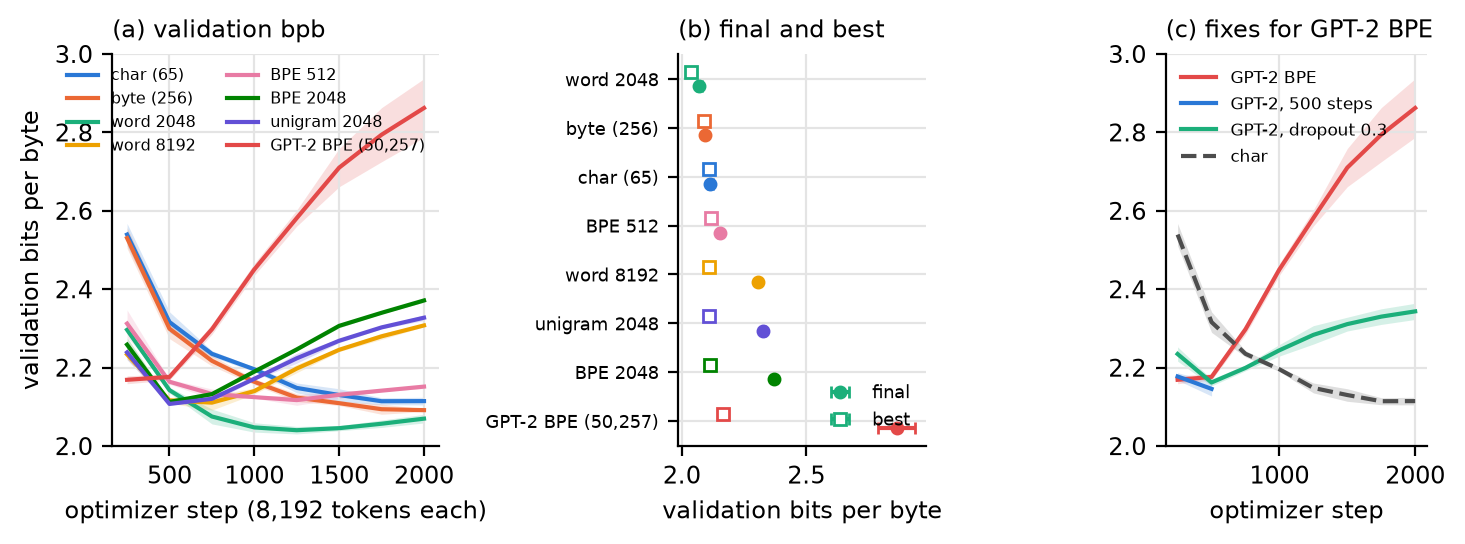
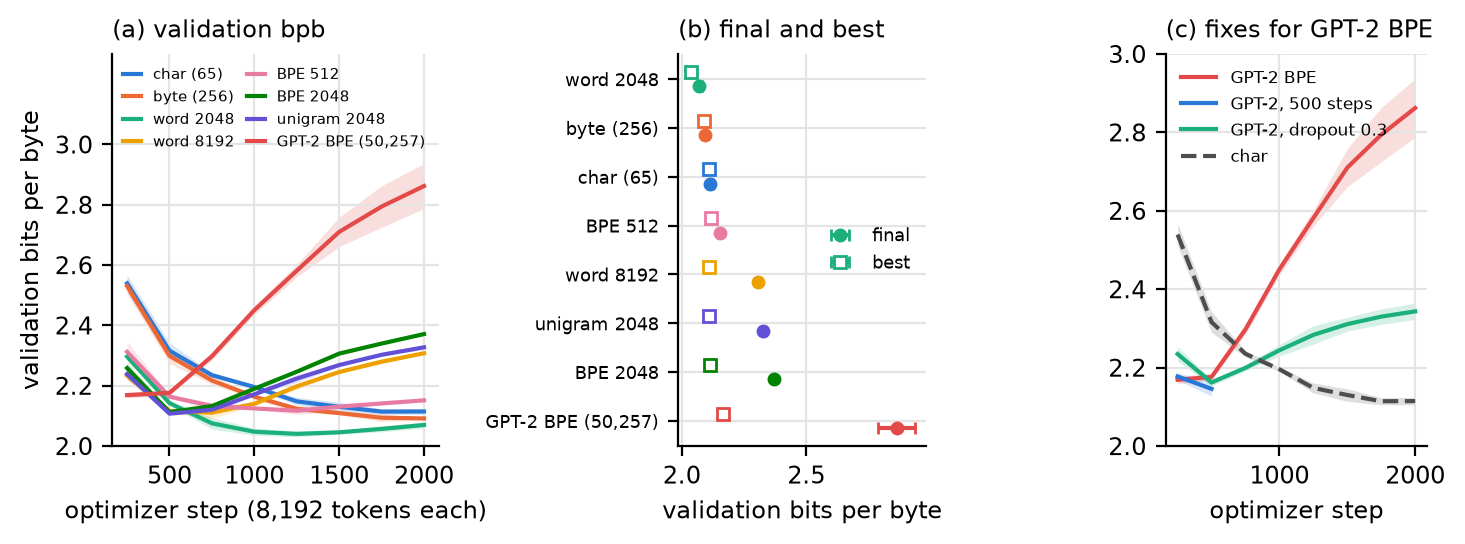
Tidy figure legends

diff --git a/analysis/figures.py b/analysis/figures.py
@@ -45,10 +45,11 @@ def tokenizers():
     ax = axes[0]
     for i, n in enumerate(TOKENIZERS):
         band(ax, T[n]["curve"], PAL[i], TOK_LABEL[n], x="steps", scale=1)
-    ax.set_ylim(2.0, 3.0)
+    ax.set_ylim(2.0, 3.3)
+    ax.set_yticks(np.arange(2.0, 3.01, 0.2))
     ax.set_xlabel("optimizer step (8,192 tokens each)")
     ax.set_ylabel("validation bits per byte")
-    ax.legend(fontsize=5.6, ncol=2, loc="upper right")
+    ax.legend(fontsize=5.4, ncol=2, loc="upper right", handlelength=1.2, columnspacing=0.8)
     ax.set_title("(a) validation bpb", loc="left", fontsize=8.5)
     ax = axes[1]
     order = sorted(TOKENIZERS, key=lambda n: T[n]["final_bpb"]["mean"])
@@ -62,7 +63,7 @@ def tokenizers():
     ax.set_yticklabels([TOK_LABEL[n] for n in order], fontsize=6.5)
     ax.invert_yaxis()
     ax.set_xlabel("validation bits per byte")
-    ax.legend(fontsize=6.5, loc="lower right")
+    ax.legend(fontsize=6.5, loc="center right")
     ax.set_title("(b) final and best", loc="left", fontsize=8.5)
     ax = axes[2]
     band(ax, T["gpt2_bpe"]["curve"], PAL[7], "GPT-2 BPE", x="steps", scale=1)
@@ -84,10 +85,10 @@ def recipe():
     ax = axes[0]
     for i, n in enumerate(RECIPE):
         band(ax, R["configs"][n]["curve"], PAL[i], RECIPE_LABEL[n], ls="--" if n == "muon_cosine" else "-")
-    ax.set_ylim(1.75, 2.75)
+    ax.set_ylim(1.75, 3.0)
     ax.set_xlabel("training tokens (millions)")
     ax.set_ylabel("validation bpb (first 524,288 tokens)")
-    ax.legend(fontsize=5.6)
+    ax.legend(fontsize=5.6, loc="upper right")
     ax.set_title("(a) the recipe, 5 seeds", loc="left", fontsize=8.5)
     ax = axes[1]
     rows = [("RoPE alone", R["parts"]["rope_alone"]), ("RMSNorm alone", R["parts"]["rmsnorm_alone"]),
@@ -112,7 +113,7 @@ def recipe():
     band(ax, R["configs"]["textbook_rope"]["curve"], PAL[1], "RoPE, 16.4M tokens")
     band(ax, Q["textbook_rope_steps4000"]["curve"], PAL[1], "RoPE, 65.5M tokens", ls="--")
     band(ax, Q["textbook_nope"]["curve"], PAL[8], "no positions, 16.4M tokens", ls=":")
-    ax.set_ylim(1.75, 2.75)
+    ax.set_ylim(1.75, 3.0)
     ax.set_xlabel("training tokens (millions)")
     ax.legend(fontsize=5.6, loc="upper right")
     ax.set_title("(c) positions, textbook model", loc="left", fontsize=8.5)
